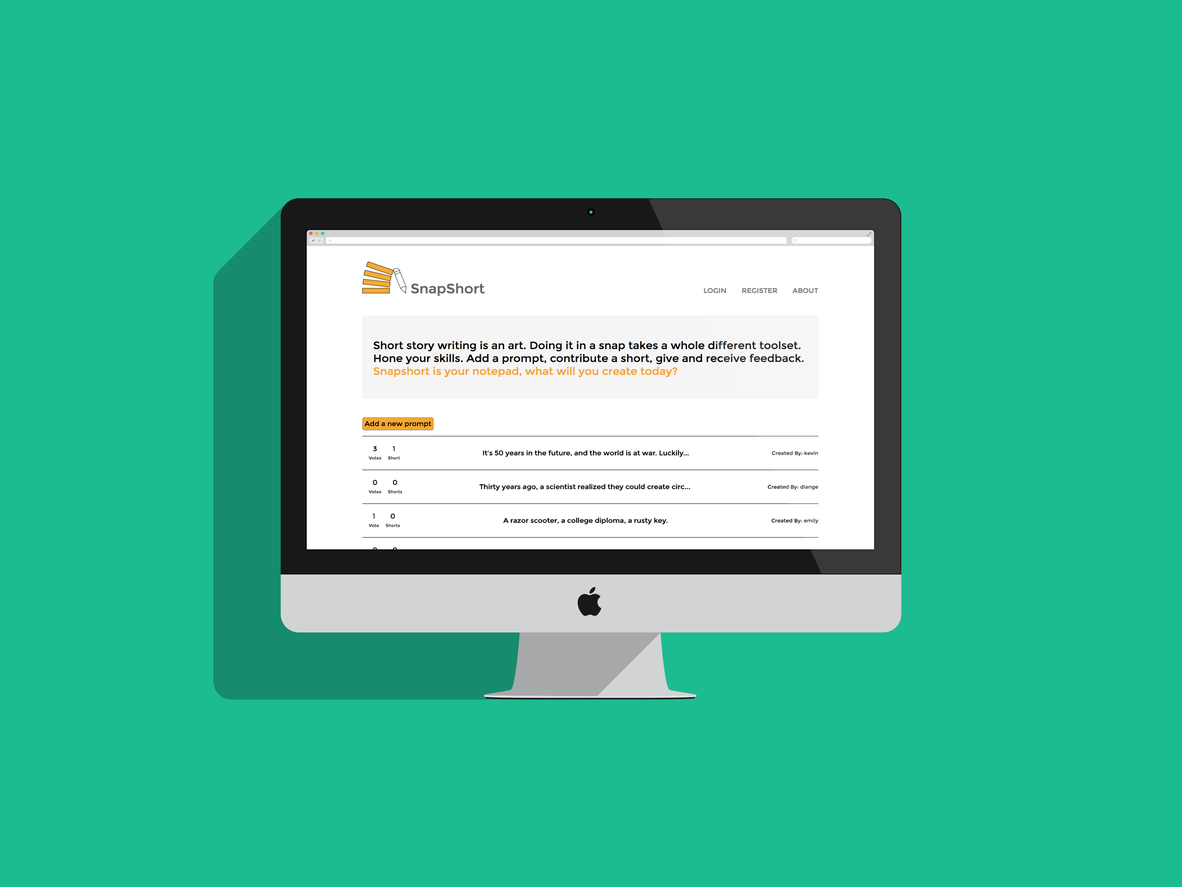
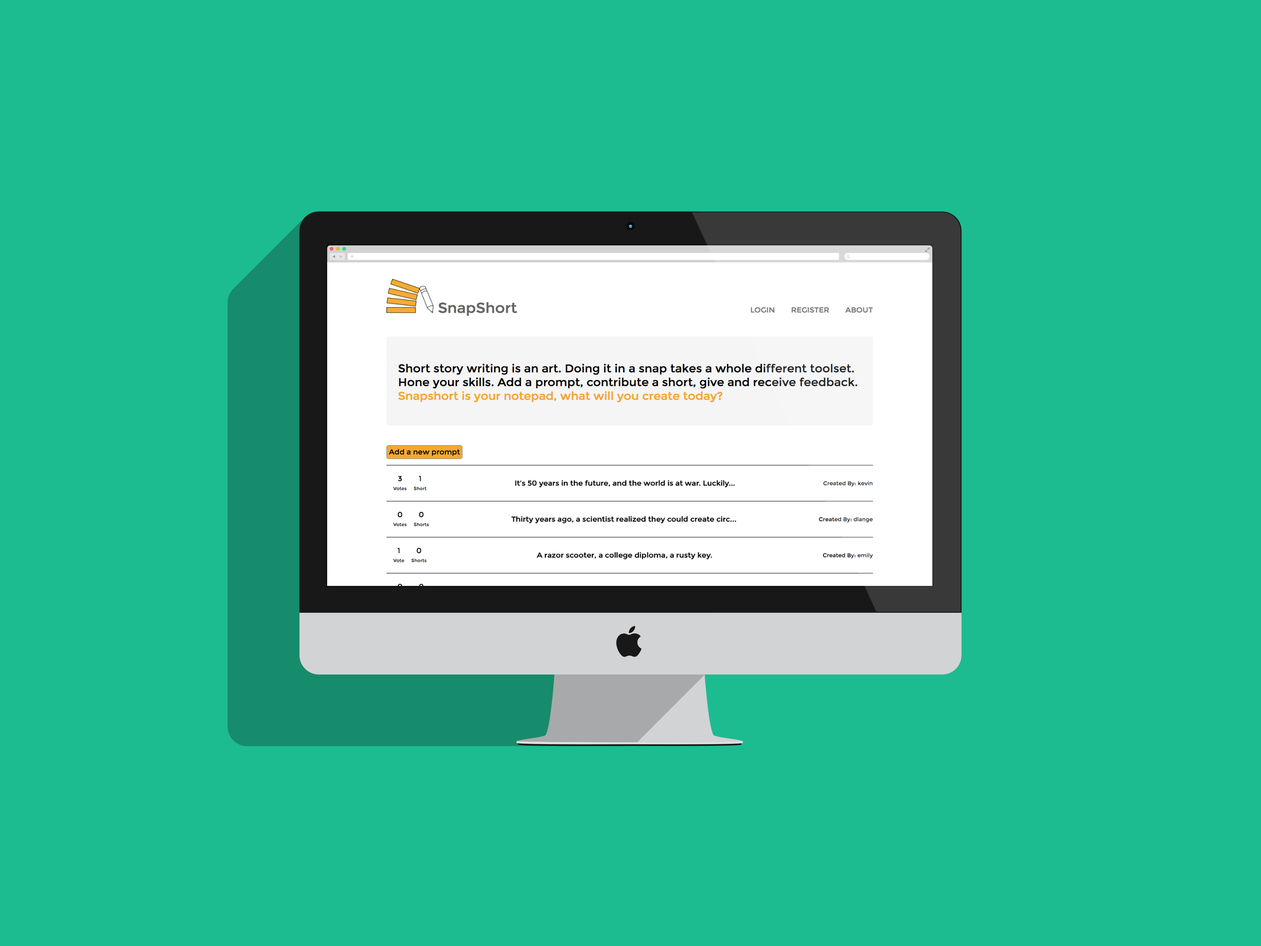
fix portfolio project image sizing

diff --git a/css/agency.css b/css/agency.css
@@ -1,1 +1,1 @@
-body{overflow-x:hidden;font-family:"Roboto Slab","Helvetica Neue",Helvetica,Arial,sans-serif}.text-muted{color:#777}.text-primary{color:#ffffff}p{font-size:14px;line-height:1.75}p.large{font-size:16px}a,a:hover,a:focus,a:active,a.active{outline:0}a{color:black}a:hover,a:focus,a:active,a.active{color:black}h1,h2,h3,h4,h5,h6{font-family:Montserrat,"Helvetica Neue",Helvetica,Arial,sans-serif;text-transform:uppercase;font-weight:700}.img-centered{margin:0 auto}.bg-light-gray{background-color:#ffffff}.bg-darkest-gray{background-color:#222}.btn-primary{color:#fff;background-color:#ffffff;border-color:#ffffff;font-family:Montserrat,"Helvetica Neue",Helvetica,Arial,sans-serif;text-transform:uppercase;font-weight:700}.btn-primary:hover,.btn-primary:focus,.btn-primary:active,.btn-primary.active,.open .dropdown-toggle.btn-primary{color:#fff;background-color:none;border-color:#f6bf01}.btn-primary:active,.btn-primary.active,.open .dropdown-toggle.btn-primary{background-image:none}.btn-primary.disabled,.btn-primary[disabled],fieldset[disabled] .btn-primary,.btn-primary.disabled:hover,.btn-primary[disabled]:hover,fieldset[disabled] .btn-primary:hover,.btn-primary.disabled:focus,.btn-primary[disabled]:focus,fieldset[disabled] .btn-primary:focus,.btn-primary.disabled:active,.btn-primary[disabled]:active,fieldset[disabled] .btn-primary:active,.btn-primary.disabled.active,.btn-primary[disabled].active,fieldset[disabled] .btn-primary.active{background-color:#ffffff;border-color:#ffffff}.btn-primary .badge{color:#ffffff;background-color:#fff}.btn-xl{color:#000000;background-color:#ffffff;border-color:#ffffff;font-family:Montserrat,"Helvetica Neue",Helvetica,Arial,sans-serif;text-transform:uppercase;font-weight:700;border-radius:3px;font-size:18px;padding:20px 40px}.btn-xl:hover,.btn-xl:focus,.btn-xl:active,.btn-xl.active,.open .dropdown-toggle.btn-xl{color:#fff;background-color:#fec503;border-color:#f6bf01}.btn-xl:active,.btn-xl.active,.open .dropdown-toggle.btn-xl{background-image:none}.btn-xl.disabled,.btn-xl[disabled],fieldset[disabled] .btn-xl,.btn-xl.disabled:hover,.btn-xl[disabled]:hover,fieldset[disabled] .btn-xl:hover,.btn-xl.disabled:focus,.btn-xl[disabled]:focus,fieldset[disabled] .btn-xl:focus,.btn-xl.disabled:active,.btn-xl[disabled]:active,fieldset[disabled] .btn-xl:active,.btn-xl.disabled.active,.btn-xl[disabled].active,fieldset[disabled] .btn-xl.active{background-color:#ffffff;border-color:#ffffff}.btn-xl .badge{color:#ffffff;background-color:#fff}.navbar-default{background-color:#ffffff;border-color:transparent}.navbar-default .navbar-brand{color:#000000;font-family:"Droid Serif","Helvetica Neue",Helvetica,Arial,cursive; font-style: italic;}.navbar-default .navbar-brand:hover,.navbar-default .navbar-brand:focus,.navbar-default .navbar-brand:active,.navbar-default .navbar-brand.active{color:#ffffff}.navbar-default .navbar-collapse{border-color:rgba(255,255,255,.02)}.navbar-default .navbar-toggle{background-color:#ffffff;border-color:#ffffff}.navbar-default .navbar-toggle .icon-bar{background-color:#fff}.navbar-default .navbar-toggle:hover,.navbar-default .navbar-toggle:focus{background-color:#ffffff}.navbar-default .nav li a{font-family:Montserrat,"Helvetica Neue",Helvetica,Arial,sans-serif;text-transform:uppercase;font-weight:400;letter-spacing:1px;color:#fff}.navbar-default .nav li a:hover,.navbar-default .nav li a:focus{color:#ffffff;outline:0}.navbar-default .navbar-nav>.active>a{border-radius:0;color:#fff;background-color:#ffffff}.navbar-default .navbar-nav>.active>a:hover,.navbar-default .navbar-nav>.active>a:focus{color:#fff;background-color:#ffffff}@media (min-width:768px){.navbar-default{background-color:transparent;padding:25px 0;-webkit-transition:padding .3s;-moz-transition:padding .3s;transition:padding .3s;border:0}.navbar-default .navbar-brand{font-size:2em;-webkit-transition:all .3s;-moz-transition:all .3s;transition:all .3s}.navbar-default .navbar-nav>.active>a{border-radius:3px}.navbar-default.navbar-shrink{background-color:#ffffff;padding:10px 0}.navbar-default.navbar-shrink .navbar-brand{font-size:1.5em}}header{background-image:url(../img/header-bg.jpg);background-repeat:none;background-attachment:scroll;background-position:center center;-webkit-background-size:cover;-moz-background-size:cover;background-size:cover;-o-background-size:cover;text-align:center;color:#808080}header .intro-text{padding-top:100px;padding-bottom:50px;color:#000000;}header .intro-text .intro-lead-in{font-family:"Droid Serif","Helvetica Neue",Helvetica,Arial,sans-serif;font-style:italic;font-size:22px;line-height:22px;margin-bottom:25px}header .intro-text .intro-heading{font-family:font-family: 'Cuprum', sans-serif;,"Helvetica Neue",Helvetica,Arial,sans-serif;text-transform:uppercase;font-weight:700;font-size:50px;line-height:50px;margin-bottom:25px}@media (min-width:768px){header .intro-text{padding-top:300px;padding-bottom:200px}header .intro-text .intro-lead-in{font-family:"Droid Serif","Helvetica Neue",Helvetica,Arial,sans-serif;font-style:italic;font-size:40px;line-height:40px;margin-bottom:25px}header .intro-text .intro-heading{font-family:Cabin,"Helvetica Neue",Helvetica,Arial,sans-serif;text-transform:uppercase;font-weight:700;font-size:75px;line-height:75px;margin-bottom:50px}}section{padding:100px 0}section h2.section-heading{font-size:40px;margin-top:0;margin-bottom:15px}section h3.section-subheading{font-size:16px;font-family:"Droid Serif","Helvetica Neue",Helvetica,Arial,sans-serif;text-transform:none;font-style:italic;font-weight:400;margin-bottom:75px}@media (min-width:768px){section{padding:150px 0}}.service-heading{margin:15px 0;text-transform:none}#portfolio .portfolio-item{margin:0 0 15px;right:0}#portfolio .portfolio-item .portfolio-link{display:block;position:relative;max-width:400px;margin:0 auto}#portfolio .portfolio-item .portfolio-link .portfolio-hover{background:rgba(254,209,54,.9);position:absolute;width:100%;height:100%;opacity:0;transition:all ease .5s;-webkit-transition:all ease .5s;-moz-transition:all ease .5s}#portfolio .portfolio-item .portfolio-link .portfolio-hover:hover{opacity:1}#portfolio .portfolio-item .portfolio-link .portfolio-hover .portfolio-hover-content{position:absolute;width:100%;height:20px;font-size:20px;text-align:center;top:50%;margin-top:-12px;color:#fff}#portfolio .portfolio-item .portfolio-link .portfolio-hover .portfolio-hover-content i{margin-top:-12px}#portfolio .portfolio-item .portfolio-link .portfolio-hover .portfolio-hover-content h3,#portfolio .portfolio-item .portfolio-link .portfolio-hover .portfolio-hover-content h4{margin:0}#portfolio .portfolio-item .portfolio-caption{max-width:400px;margin:0 auto;background-color:#fff;text-align:center;padding:25px}#portfolio .portfolio-item .portfolio-caption h4{text-transform:none;margin:0}#portfolio .portfolio-item .portfolio-caption p{font-family:"Droid Serif","Helvetica Neue",Helvetica,Arial,sans-serif;font-style:italic;font-size:16px;margin:0}#portfolio *{z-index:2}@media (min-width:767px){#portfolio .portfolio-item{margin:0 0 30px}}.timeline{list-style:none;padding:0;position:relative}.timeline:before{top:0;bottom:0;position:absolute;content:"";width:2px;background-color:#f1f1f1;left:40px;margin-left:-1.5px}.timeline>li{margin-bottom:50px;position:relative;min-height:50px}.timeline>li:before,.timeline>li:after{content:" ";display:table}.timeline>li:after{clear:both}.timeline>li .timeline-panel{width:100%;float:right;padding:0 20px 0 100px;position:relative;text-align:left}.timeline>li .timeline-panel:before{border-left-width:0;border-right-width:15px;left:-15px;right:auto}.timeline>li .timeline-panel:after{border-left-width:0;border-right-width:14px;left:-14px;right:auto}.timeline>li .timeline-image{left:0;margin-left:0;width:80px;height:80px;position:absolute;z-index:100;background-color:#ffffff;color:#fff;border-radius:100%;border:7px solid #f1f1f1;text-align:center}.timeline>li .timeline-image h4{font-size:10px;margin-top:12px;line-height:14px}.timeline>li.timeline-inverted>.timeline-panel{float:right;text-align:left;padding:0 20px 0 100px}.timeline>li.timeline-inverted>.timeline-panel:before{border-left-width:0;border-right-width:15px;left:-15px;right:auto}.timeline>li.timeline-inverted>.timeline-panel:after{border-left-width:0;border-right-width:14px;left:-14px;right:auto}.timeline>li:last-child{margin-bottom:0}.timeline .timeline-heading h4{margin-top:0;color:inherit}.timeline .timeline-heading h4.subheading{text-transform:none}.timeline .timeline-body>p,.timeline .timeline-body>ul{margin-bottom:0}@media (min-width:768px){.timeline:before{left:50%}.timeline>li{margin-bottom:100px;min-height:100px}.timeline>li .timeline-panel{width:41%;float:left;padding:0 20px 20px 30px;text-align:right}.timeline>li .timeline-image{width:100px;height:100px;left:50%;margin-left:-50px}.timeline>li .timeline-image h4{font-size:13px;margin-top:16px;line-height:18px}.timeline>li.timeline-inverted>.timeline-panel{float:right;text-align:left;padding:0 30px 20px 20px}}@media (min-width:992px){.timeline>li{min-height:150px}.timeline>li .timeline-panel{padding:0 20px 20px}.timeline>li .timeline-image{width:150px;height:150px;margin-left:-75px}.timeline>li .timeline-image h4{font-size:18px;margin-top:30px;line-height:26px}.timeline>li.timeline-inverted>.timeline-panel{padding:0 20px 20px}}@media (min-width:1200px){.timeline>li{min-height:170px}.timeline>li .timeline-panel{padding:0 20px 20px 100px}.timeline>li .timeline-image{width:170px;height:170px;margin-left:-85px}.timeline>li .timeline-image h4{margin-top:40px}.timeline>li.timeline-inverted>.timeline-panel{padding:0 100px 20px 20px}}.team-member{text-align:center;margin-bottom:50px}.team-member img{margin:0 auto;border:7px solid #fff}.team-member h4{margin-top:25px;margin-bottom:0;text-transform:none}.team-member p{margin-top:0}aside.clients img{margin:50px auto}section#contact{background-color:#222;background-image:url(../img/header-bg.jpg);background-position:center;background-repeat:no-repeat}section#contact .section-heading{color:#000000}section#contact .form-group{margin-bottom:25px}section#contact .form-group input,section#contact .form-group textarea{padding:20px}section#contact .form-group input.form-control{height:auto}section#contact .form-group textarea.form-control{height:236px}section#contact .form-control:focus{border-color:#ffffff;box-shadow:none}section#contact ::-webkit-input-placeholder{font-family:Montserrat,"Helvetica Neue",Helvetica,Arial,sans-serif;text-transform:uppercase;font-weight:700;color:#bbb}section#contact :-moz-placeholder{font-family:Montserrat,"Helvetica Neue",Helvetica,Arial,sans-serif;text-transform:uppercase;font-weight:700;color:#bbb}section#contact ::-moz-placeholder{font-family:Montserrat,"Helvetica Neue",Helvetica,Arial,sans-serif;text-transform:uppercase;font-weight:700;color:#bbb}section#contact :-ms-input-placeholder{font-family:Montserrat,"Helvetica Neue",Helvetica,Arial,sans-serif;text-transform:uppercase;font-weight:700;color:#bbb}section#contact .text-danger{color:#e74c3c}footer{padding:25px 0;text-align:center}footer span.copyright{line-height:40px;font-family:Montserrat,"Helvetica Neue",Helvetica,Arial,sans-serif;text-transform:uppercase;text-transform:none}footer ul.quicklinks{margin-bottom:0;line-height:40px;font-family:Montserrat,"Helvetica Neue",Helvetica,Arial,sans-serif;text-transform:uppercase;text-transform:none}ul.social-buttons{margin-bottom:0}ul.social-buttons li a{display:block;background-color:#222;height:40px;width:40px;border-radius:100%;font-size:20px;line-height:40px;color:#fff;outline:0;-webkit-transition:all .3s;-moz-transition:all .3s;transition:all .3s}ul.social-buttons li a:hover,ul.social-buttons li a:focus,ul.social-buttons li a:active{background-color:#ffffff}.btn:focus,.btn:active,.btn.active,.btn:active:focus{outline:0}.portfolio-modal .modal-content{border-radius:0;background-clip:border-box;-webkit-box-shadow:none;box-shadow:none;border:0;min-height:100%;padding:100px 0;text-align:center}.portfolio-modal .modal-content h2{margin-bottom:15px;font-size:3em}.portfolio-modal .modal-content p{margin-bottom:30px}.portfolio-modal .modal-content p.item-intro{margin:20px 0 30px;font-family:"Droid Serif","Helvetica Neue",Helvetica,Arial,sans-serif;font-style:italic;font-size:16px}.portfolio-modal .modal-content ul.list-inline{margin-bottom:30px;margin-top:0}.portfolio-modal .modal-content img{margin-bottom:30px}.portfolio-modal .close-modal{position:absolute;width:75px;height:75px;background-color:transparent;top:25px;right:25px;cursor:pointer}.portfolio-modal .close-modal:hover{opacity:.3}.portfolio-modal .close-modal .lr{height:75px;width:1px;margin-left:35px;background-color:#222;transform:rotate(45deg);-ms-transform:rotate(45deg);-webkit-transform:rotate(45deg);z-index:1051}.portfolio-modal .close-modal .lr .rl{height:75px;width:1px;background-color:#222;transform:rotate(90deg);-ms-transform:rotate(90deg);-webkit-transform:rotate(90deg);z-index:1052}.portfolio-modal .modal-backdrop{opacity:0;display:none}::-moz-selection{text-shadow:none;background:#ffffff}::selection{text-shadow:none;background:#ffffff}img::selection{background:0 0}img::-moz-selection{background:0 0}body{webkit-tap-highlight-color:#ffffff}.name{color:#777;font-family: 'Cabin', sans-serif;}.letterCircle{border-radius: 60%;width: 45px;height: 45px;padding: 9.0px;background: #ffffff;border: 3px solid #000000;color: #000000;text-align: center;font: 32px, Droid Serif;}.lastname{font-size: 1px;}
+body{overflow-x:hidden;font-family:"Roboto Slab","Helvetica Neue",Helvetica,Arial,sans-serif}.text-muted{color:#777}.text-primary{color:#ffffff}p{font-size:14px;line-height:1.75}p.large{font-size:16px}a,a:hover,a:focus,a:active,a.active{outline:0}a{color:black}a:hover,a:focus,a:active,a.active{color:black}h1,h2,h3,h4,h5,h6{font-family:Montserrat,"Helvetica Neue",Helvetica,Arial,sans-serif;text-transform:uppercase;font-weight:700}.img-centered{margin:0 auto}.bg-light-gray{background-color:#ffffff}.bg-darkest-gray{background-color:#222}.btn-primary{color:#fff;background-color:#ffffff;border-color:#ffffff;font-family:Montserrat,"Helvetica Neue",Helvetica,Arial,sans-serif;text-transform:uppercase;font-weight:700}.btn-primary:hover,.btn-primary:focus,.btn-primary:active,.btn-primary.active,.open .dropdown-toggle.btn-primary{color:#fff;background-color:none;border-color:#f6bf01}.btn-primary:active,.btn-primary.active,.open .dropdown-toggle.btn-primary{background-image:none}.btn-primary.disabled,.btn-primary[disabled],fieldset[disabled] .btn-primary,.btn-primary.disabled:hover,.btn-primary[disabled]:hover,fieldset[disabled] .btn-primary:hover,.btn-primary.disabled:focus,.btn-primary[disabled]:focus,fieldset[disabled] .btn-primary:focus,.btn-primary.disabled:active,.btn-primary[disabled]:active,fieldset[disabled] .btn-primary:active,.btn-primary.disabled.active,.btn-primary[disabled].active,fieldset[disabled] .btn-primary.active{background-color:#ffffff;border-color:#ffffff}.btn-primary .badge{color:#ffffff;background-color:#fff}.btn-xl{color:#000000;background-color:#ffffff;border-color:#ffffff;font-family:Montserrat,"Helvetica Neue",Helvetica,Arial,sans-serif;text-transform:uppercase;font-weight:700;border-radius:3px;font-size:18px;padding:20px 40px}.btn-xl:hover,.btn-xl:focus,.btn-xl:active,.btn-xl.active,.open .dropdown-toggle.btn-xl{color:#fff;background-color:#fec503;border-color:#f6bf01}.btn-xl:active,.btn-xl.active,.open .dropdown-toggle.btn-xl{background-image:none}.btn-xl.disabled,.btn-xl[disabled],fieldset[disabled] .btn-xl,.btn-xl.disabled:hover,.btn-xl[disabled]:hover,fieldset[disabled] .btn-xl:hover,.btn-xl.disabled:focus,.btn-xl[disabled]:focus,fieldset[disabled] .btn-xl:focus,.btn-xl.disabled:active,.btn-xl[disabled]:active,fieldset[disabled] .btn-xl:active,.btn-xl.disabled.active,.btn-xl[disabled].active,fieldset[disabled] .btn-xl.active{background-color:#ffffff;border-color:#ffffff}.btn-xl .badge{color:#ffffff;background-color:#fff}.navbar-default{background-color:#ffffff;border-color:transparent}.navbar-default .navbar-brand{color:#000000;font-family:"Droid Serif","Helvetica Neue",Helvetica,Arial,cursive; font-style: italic;}.navbar-default .navbar-brand:hover,.navbar-default .navbar-brand:focus,.navbar-default .navbar-brand:active,.navbar-default .navbar-brand.active{color:#ffffff}.navbar-default .navbar-collapse{border-color:rgba(255,255,255,.02)}.navbar-default .navbar-toggle{background-color:#ffffff;border-color:#ffffff}.navbar-default .navbar-toggle .icon-bar{background-color:#fff}.navbar-default .navbar-toggle:hover,.navbar-default .navbar-toggle:focus{background-color:#ffffff}.navbar-default .nav li a{font-family:Montserrat,"Helvetica Neue",Helvetica,Arial,sans-serif;text-transform:uppercase;font-weight:400;letter-spacing:1px;color:#fff}.navbar-default .nav li a:hover,.navbar-default .nav li a:focus{color:#ffffff;outline:0}.navbar-default .navbar-nav>.active>a{border-radius:0;color:#fff;background-color:#ffffff}.navbar-default .navbar-nav>.active>a:hover,.navbar-default .navbar-nav>.active>a:focus{color:#fff;background-color:#ffffff}@media (min-width:768px){.navbar-default{background-color:transparent;padding:25px 0;-webkit-transition:padding .3s;-moz-transition:padding .3s;transition:padding .3s;border:0}.navbar-default .navbar-brand{font-size:2em;-webkit-transition:all .3s;-moz-transition:all .3s;transition:all .3s}.navbar-default .navbar-nav>.active>a{border-radius:3px}.navbar-default.navbar-shrink{background-color:#ffffff;padding:10px 0}.navbar-default.navbar-shrink .navbar-brand{font-size:1.5em}}header{background-image:url(../img/header-bg.jpg);background-repeat:none;background-attachment:scroll;background-position:center center;-webkit-background-size:cover;-moz-background-size:cover;background-size:cover;-o-background-size:cover;text-align:center;color:#808080}header .intro-text{padding-top:100px;padding-bottom:50px;color:#000000;}header .intro-text .intro-lead-in{font-family:"Droid Serif","Helvetica Neue",Helvetica,Arial,sans-serif;font-style:italic;font-size:22px;line-height:22px;margin-bottom:25px}header .intro-text .intro-heading{font-family:font-family: 'Cuprum', sans-serif;,"Helvetica Neue",Helvetica,Arial,sans-serif;text-transform:uppercase;font-weight:700;font-size:50px;line-height:50px;margin-bottom:25px}@media (min-width:768px){header .intro-text{padding-top:300px;padding-bottom:200px}header .intro-text .intro-lead-in{font-family:"Droid Serif","Helvetica Neue",Helvetica,Arial,sans-serif;font-style:italic;font-size:40px;line-height:40px;margin-bottom:25px}header .intro-text .intro-heading{font-family:Cabin,"Helvetica Neue",Helvetica,Arial,sans-serif;text-transform:uppercase;font-weight:700;font-size:75px;line-height:75px;margin-bottom:50px}}section{padding:100px 0}section h2.section-heading{font-size:40px;margin-top:0;margin-bottom:15px}section h3.section-subheading{font-size:16px;font-family:"Droid Serif","Helvetica Neue",Helvetica,Arial,sans-serif;text-transform:none;font-style:italic;font-weight:400;margin-bottom:75px}@media (min-width:768px){section{padding:150px 0}}.service-heading{margin:15px 0;text-transform:none}#portfolio .portfolio-item{margin:0 0 15px;right:0}#portfolio .portfolio-item .portfolio-link{display:block;position:relative;max-width:400px;margin:0 auto}#portfolio .portfolio-item .portfolio-link .portfolio-hover{background:rgba(254,209,54,.9);position:absolute;width:100%;height:100%;opacity:0;transition:all ease .5s;-webkit-transition:all ease .5s;-moz-transition:all ease .5s}#portfolio .portfolio-item .portfolio-link .portfolio-hover:hover{opacity:1}#portfolio .portfolio-item .portfolio-link .portfolio-hover .portfolio-hover-content{position:absolute;width:100%;height:20px;font-size:20px;text-align:center;top:50%;margin-top:-12px;color:#fff}#portfolio .portfolio-item .portfolio-link .portfolio-hover .portfolio-hover-content i{margin-top:-12px}#portfolio .portfolio-item .portfolio-link .portfolio-hover .portfolio-hover-content h3,#portfolio .portfolio-item .portfolio-link .portfolio-hover .portfolio-hover-content h4{margin:0}#portfolio .portfolio-item .portfolio-caption{max-width:400px;margin:0 auto;background-color:#fff;text-align:center;padding:25px}#portfolio .portfolio-item .portfolio-caption h4{text-transform:none;margin:0}#portfolio .portfolio-item .portfolio-caption p{font-family:"Droid Serif","Helvetica Neue",Helvetica,Arial,sans-serif;font-style:italic;font-size:16px;margin:0}#portfolio *{z-index:2}@media (min-width:767px){#portfolio .portfolio-item{margin:0 0 30px}}.timeline{list-style:none;padding:0;position:relative}.timeline:before{top:0;bottom:0;position:absolute;content:"";width:2px;background-color:#f1f1f1;left:40px;margin-left:-1.5px}.timeline>li{margin-bottom:50px;position:relative;min-height:50px}.timeline>li:before,.timeline>li:after{content:" ";display:table}.timeline>li:after{clear:both}.timeline>li .timeline-panel{width:100%;float:right;padding:0 20px 0 100px;position:relative;text-align:left}.timeline>li .timeline-panel:before{border-left-width:0;border-right-width:15px;left:-15px;right:auto}.timeline>li .timeline-panel:after{border-left-width:0;border-right-width:14px;left:-14px;right:auto}.timeline>li .timeline-image{left:0;margin-left:0;width:80px;height:80px;position:absolute;z-index:100;background-color:#ffffff;color:#fff;border-radius:100%;border:7px solid #f1f1f1;text-align:center}.timeline>li .timeline-image h4{font-size:10px;margin-top:12px;line-height:14px}.timeline>li.timeline-inverted>.timeline-panel{float:right;text-align:left;padding:0 20px 0 100px}.timeline>li.timeline-inverted>.timeline-panel:before{border-left-width:0;border-right-width:15px;left:-15px;right:auto}.timeline>li.timeline-inverted>.timeline-panel:after{border-left-width:0;border-right-width:14px;left:-14px;right:auto}.timeline>li:last-child{margin-bottom:0}.timeline .timeline-heading h4{margin-top:0;color:inherit}.timeline .timeline-heading h4.subheading{text-transform:none}.timeline .timeline-body>p,.timeline .timeline-body>ul{margin-bottom:0}@media (min-width:768px){.timeline:before{left:50%}.timeline>li{margin-bottom:100px;min-height:100px}.timeline>li .timeline-panel{width:41%;float:left;padding:0 20px 20px 30px;text-align:right}.timeline>li .timeline-image{width:100px;height:100px;left:50%;margin-left:-50px}.timeline>li .timeline-image h4{font-size:13px;margin-top:16px;line-height:18px}.timeline>li.timeline-inverted>.timeline-panel{float:right;text-align:left;padding:0 30px 20px 20px}}@media (min-width:992px){.timeline>li{min-height:150px}.timeline>li .timeline-panel{padding:0 20px 20px}.timeline>li .timeline-image{width:150px;height:150px;margin-left:-75px}.timeline>li .timeline-image h4{font-size:18px;margin-top:30px;line-height:26px}.timeline>li.timeline-inverted>.timeline-panel{padding:0 20px 20px}}@media (min-width:1200px){.timeline>li{min-height:170px}.timeline>li .timeline-panel{padding:0 20px 20px 100px}.timeline>li .timeline-image{width:170px;height:170px;margin-left:-85px}.timeline>li .timeline-image h4{margin-top:40px}.timeline>li.timeline-inverted>.timeline-panel{padding:0 100px 20px 20px}}.team-member{text-align:center;margin-bottom:50px}.team-member img{margin:0 auto;border:7px solid #fff}.team-member h4{margin-top:25px;margin-bottom:0;text-transform:none}.team-member p{margin-top:0}aside.clients img{margin:50px auto}section#contact{background-color:#222;background-image:url(../img/header-bg.jpg);background-position:center;background-repeat:no-repeat}section#contact .section-heading{color:#000000}section#contact .form-group{margin-bottom:25px}section#contact .form-group input,section#contact .form-group textarea{padding:20px}section#contact .form-group input.form-control{height:auto}section#contact .form-group textarea.form-control{height:236px}section#contact .form-control:focus{border-color:#ffffff;box-shadow:none}section#contact ::-webkit-input-placeholder{font-family:Montserrat,"Helvetica Neue",Helvetica,Arial,sans-serif;text-transform:uppercase;font-weight:700;color:#bbb}section#contact :-moz-placeholder{font-family:Montserrat,"Helvetica Neue",Helvetica,Arial,sans-serif;text-transform:uppercase;font-weight:700;color:#bbb}section#contact ::-moz-placeholder{font-family:Montserrat,"Helvetica Neue",Helvetica,Arial,sans-serif;text-transform:uppercase;font-weight:700;color:#bbb}section#contact :-ms-input-placeholder{font-family:Montserrat,"Helvetica Neue",Helvetica,Arial,sans-serif;text-transform:uppercase;font-weight:700;color:#bbb}section#contact .text-danger{color:#e74c3c}footer{padding:25px 0;text-align:center}footer span.copyright{line-height:40px;font-family:Montserrat,"Helvetica Neue",Helvetica,Arial,sans-serif;text-transform:uppercase;text-transform:none}footer ul.quicklinks{margin-bottom:0;line-height:40px;font-family:Montserrat,"Helvetica Neue",Helvetica,Arial,sans-serif;text-transform:uppercase;text-transform:none}ul.social-buttons{margin-bottom:0}ul.social-buttons li a{display:block;background-color:#222;height:40px;width:40px;border-radius:100%;font-size:20px;line-height:40px;color:#fff;outline:0;-webkit-transition:all .3s;-moz-transition:all .3s;transition:all .3s}ul.social-buttons li a:hover,ul.social-buttons li a:focus,ul.social-buttons li a:active{background-color:#ffffff}.btn:focus,.btn:active,.btn.active,.btn:active:focus{outline:0}.portfolio-modal .modal-content{border-radius:0;background-clip:border-box;-webkit-box-shadow:none;box-shadow:none;border:0;min-height:100%;padding:100px 0;text-align:center}.portfolio-modal .modal-content h2{margin-bottom:15px;font-size:3em}.portfolio-modal .modal-content p{margin-bottom:30px}.portfolio-modal .modal-content p.item-intro{margin:20px 0 30px;font-family:"Droid Serif","Helvetica Neue",Helvetica,Arial,sans-serif;font-style:italic;font-size:16px}.portfolio-modal .modal-content ul.list-inline{margin-bottom:30px;margin-top:0}.portfolio-modal .modal-content img{margin-bottom:30px}.portfolio-modal .close-modal{position:absolute;width:75px;height:75px;background-color:transparent;top:25px;right:25px;cursor:pointer}.portfolio-modal .close-modal:hover{opacity:.3}.portfolio-modal .close-modal .lr{height:75px;width:1px;margin-left:35px;background-color:#222;transform:rotate(45deg);-ms-transform:rotate(45deg);-webkit-transform:rotate(45deg);z-index:1051}.portfolio-modal .close-modal .lr .rl{height:75px;width:1px;background-color:#222;transform:rotate(90deg);-ms-transform:rotate(90deg);-webkit-transform:rotate(90deg);z-index:1052}.portfolio-modal .modal-backdrop{opacity:0;display:none}::-moz-selection{text-shadow:none;background:#ffffff}::selection{text-shadow:none;background:#ffffff}img::selection{background:0 0}img::-moz-selection{background:0 0}body{webkit-tap-highlight-color:#ffffff}.name{color:#777;font-family: 'Cabin', sans-serif;}.letterCircle{border-radius: 60%;width: 45px;height: 45px;padding: 9.0px;background: #ffffff;border: 3px solid #000000;color: #000000;text-align: center;font: 32px, Droid Serif;}.lastname{font-size: 1px;}.snapshort{height:240px;width:400px;}

diff --git a/index.html b/index.html
@@ -115,7 +115,7 @@
                                 <i class="fa fa-plus fa-3x"></i>
                             </div>
                         </div>
-                        <img src="img/portfolio/snapshort-color.png" class="img-responsive" alt="">
+                        <img src="img/portfolio/snapshort-color.png" class="img-responsive snapshort" alt="">
                     </a>
                     <div class="portfolio-caption">
                         <h4>SnapShort</h4>
